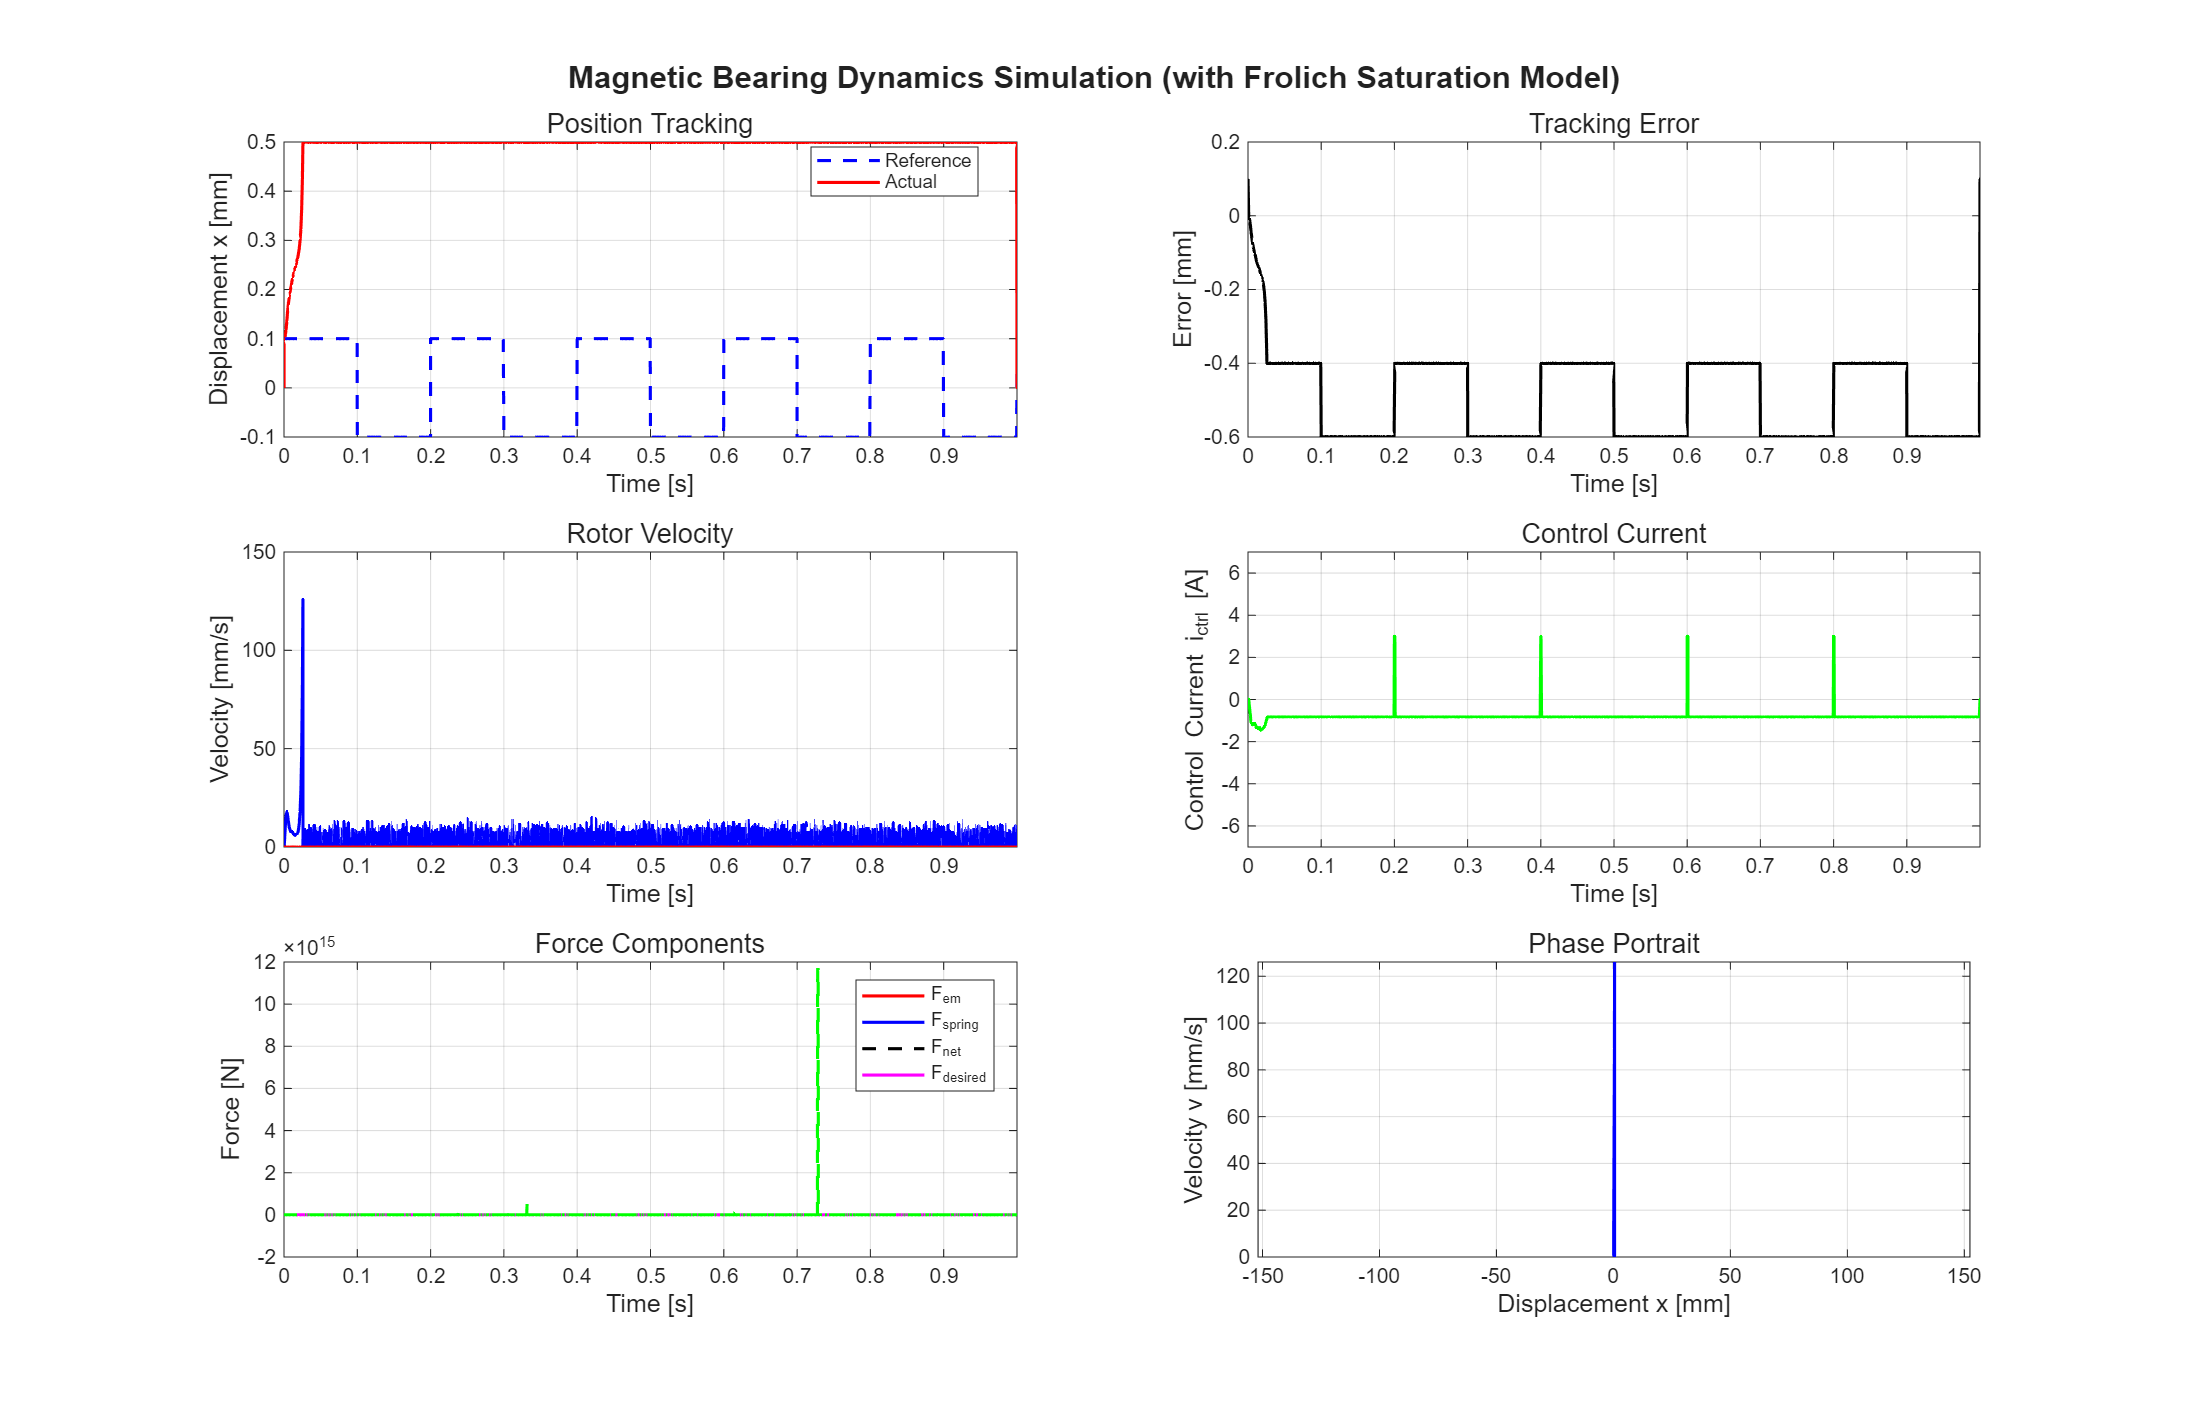
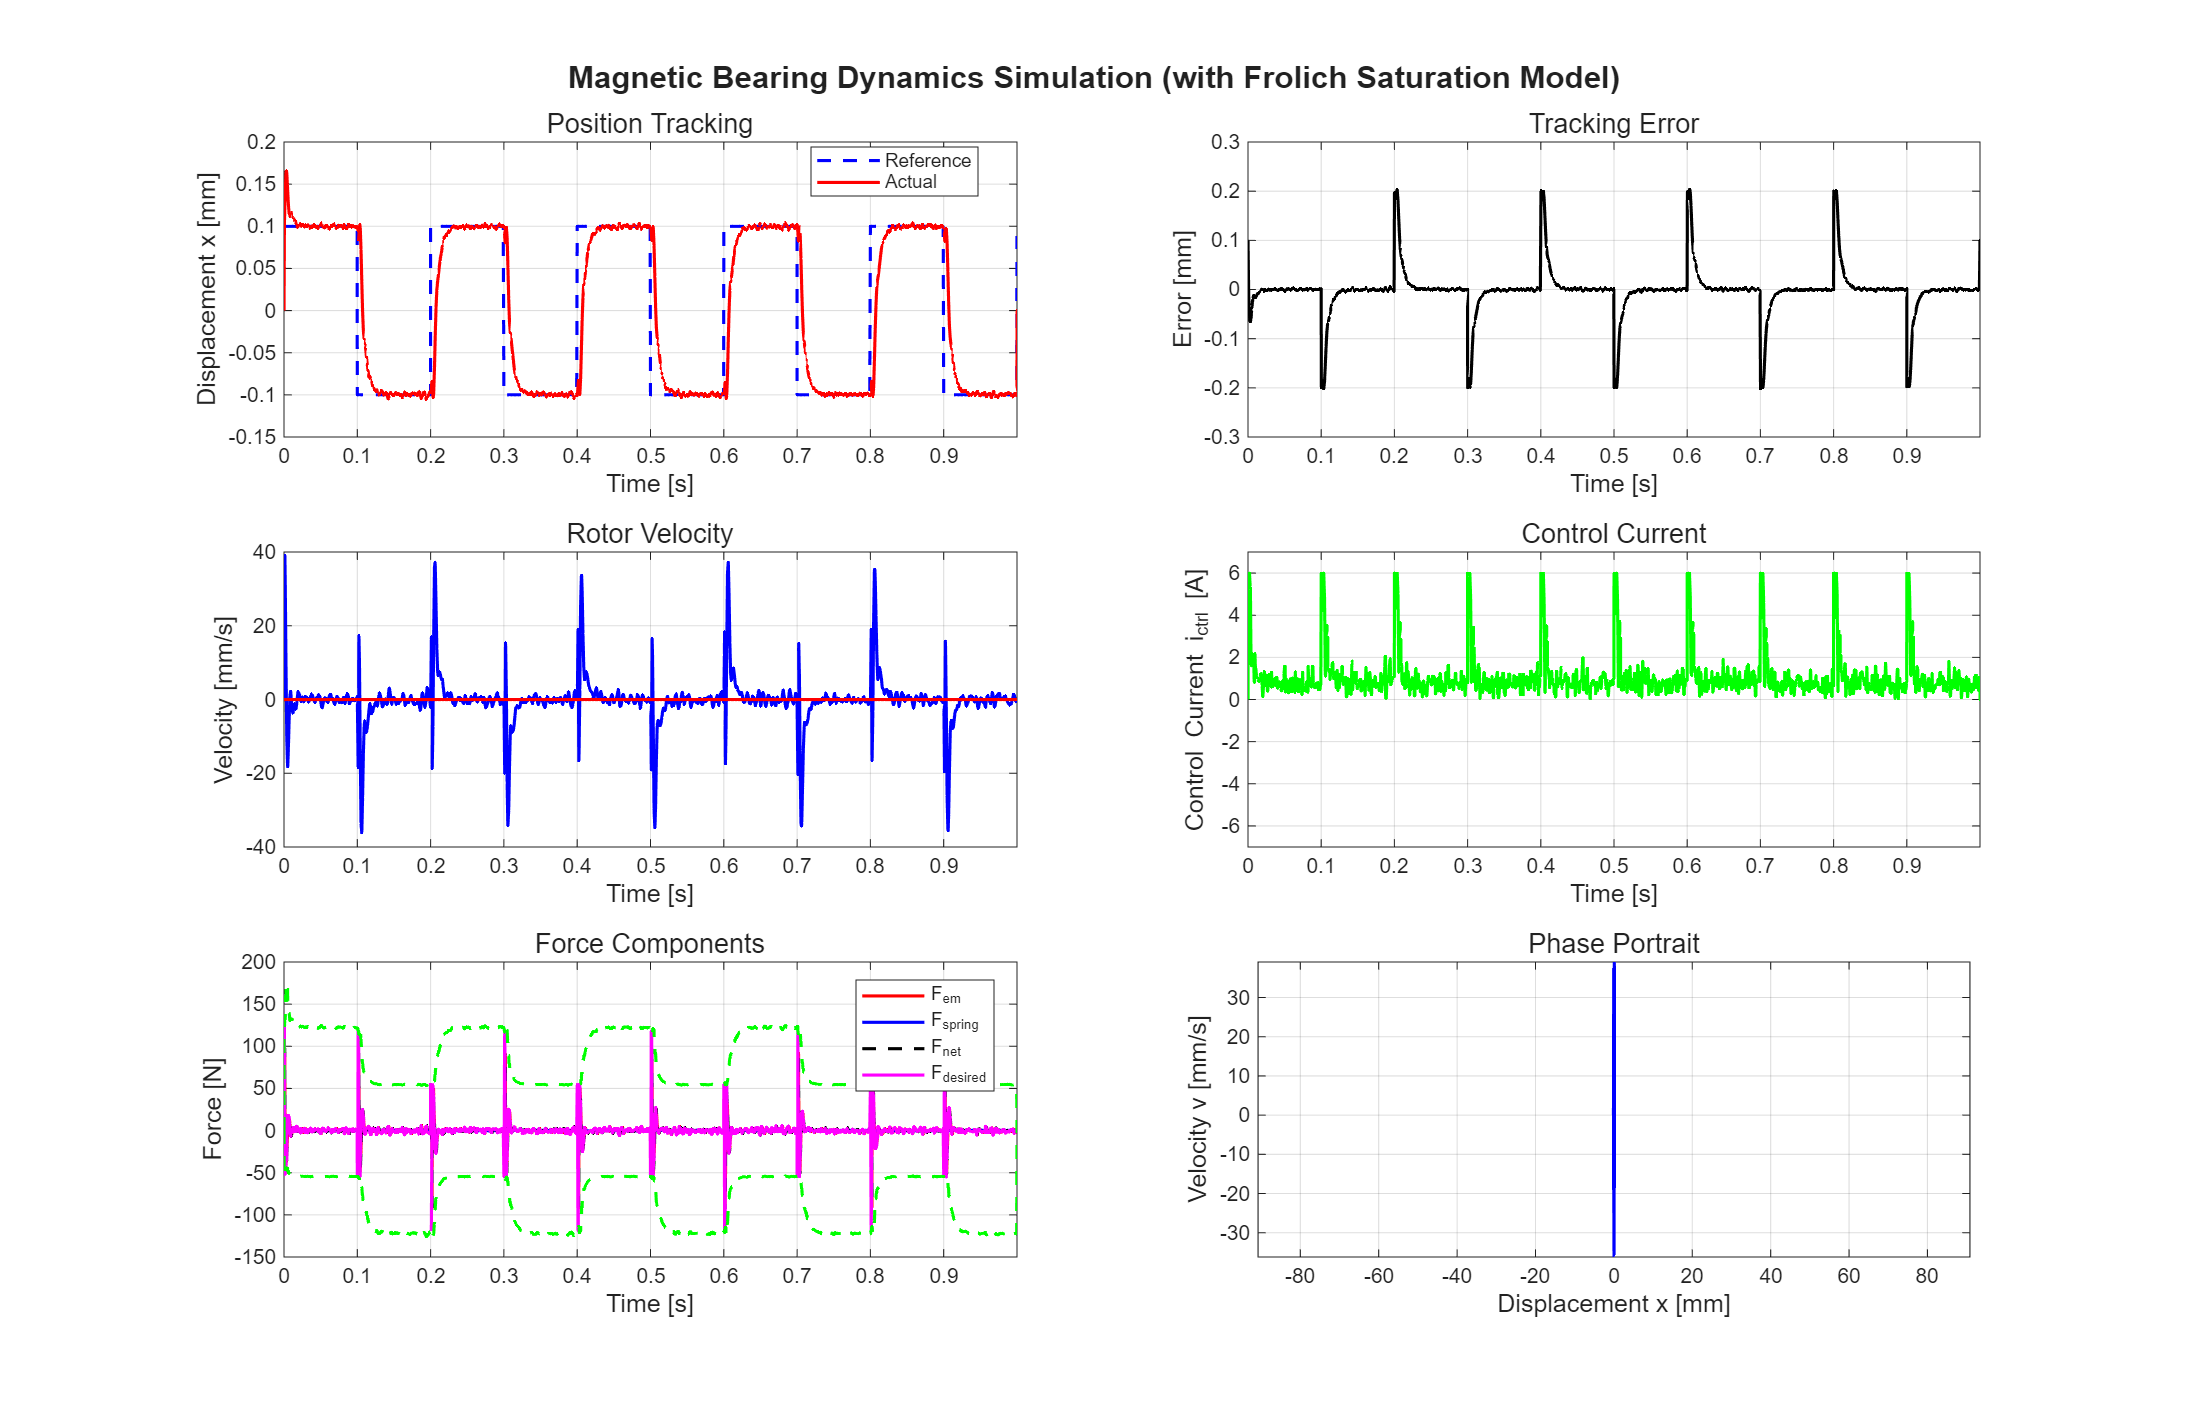
update force calculation methods in bearing dynamics simulation

diff --git a/bearing_dynamics.m b/bearing_dynamics.m
@@ -347,9 +347,9 @@ mpc_warm = [];
 fprintf('正在仿真...\n');
 tic;
 
-force_cal_methods = 'pi';
+force_cal_methods = 'stepback';
 
-force_2_current_methods = 'diff';
+force_2_current_methods = 'single';
 
 % 计算 maglev_bearing_control 中公式（2）的 k_0
 % k_0 = mu_0 * A_a * N^2 * cos(alpha) / 8